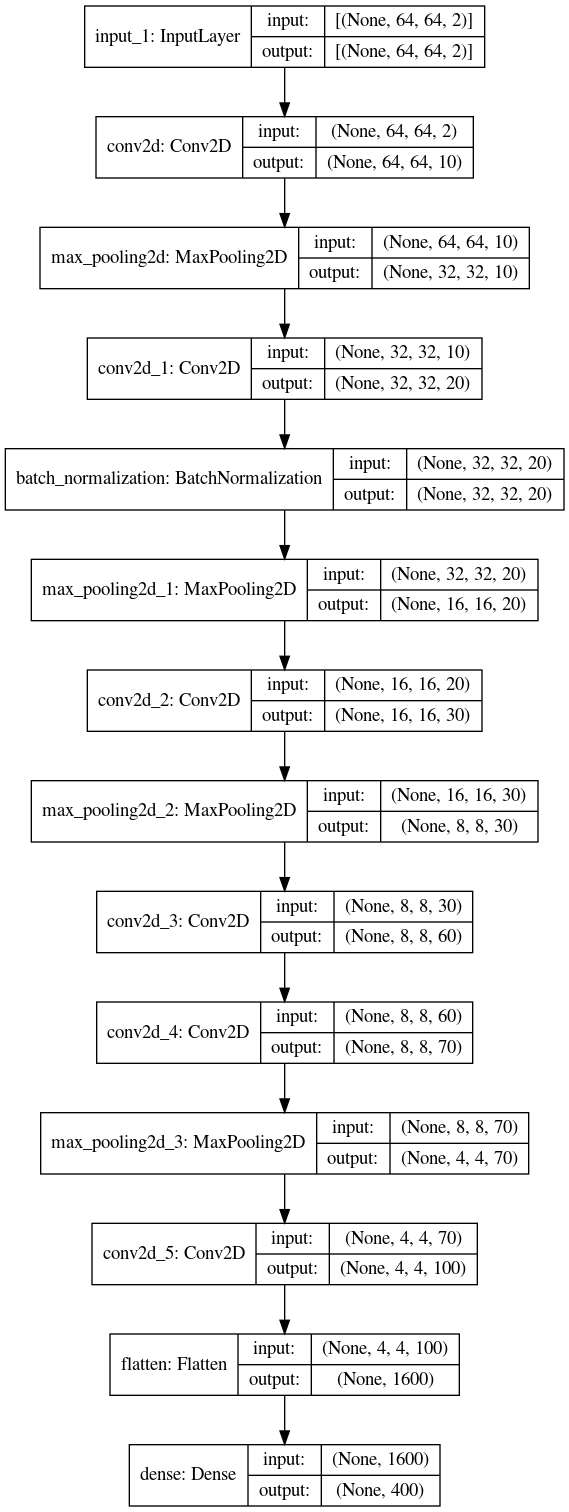
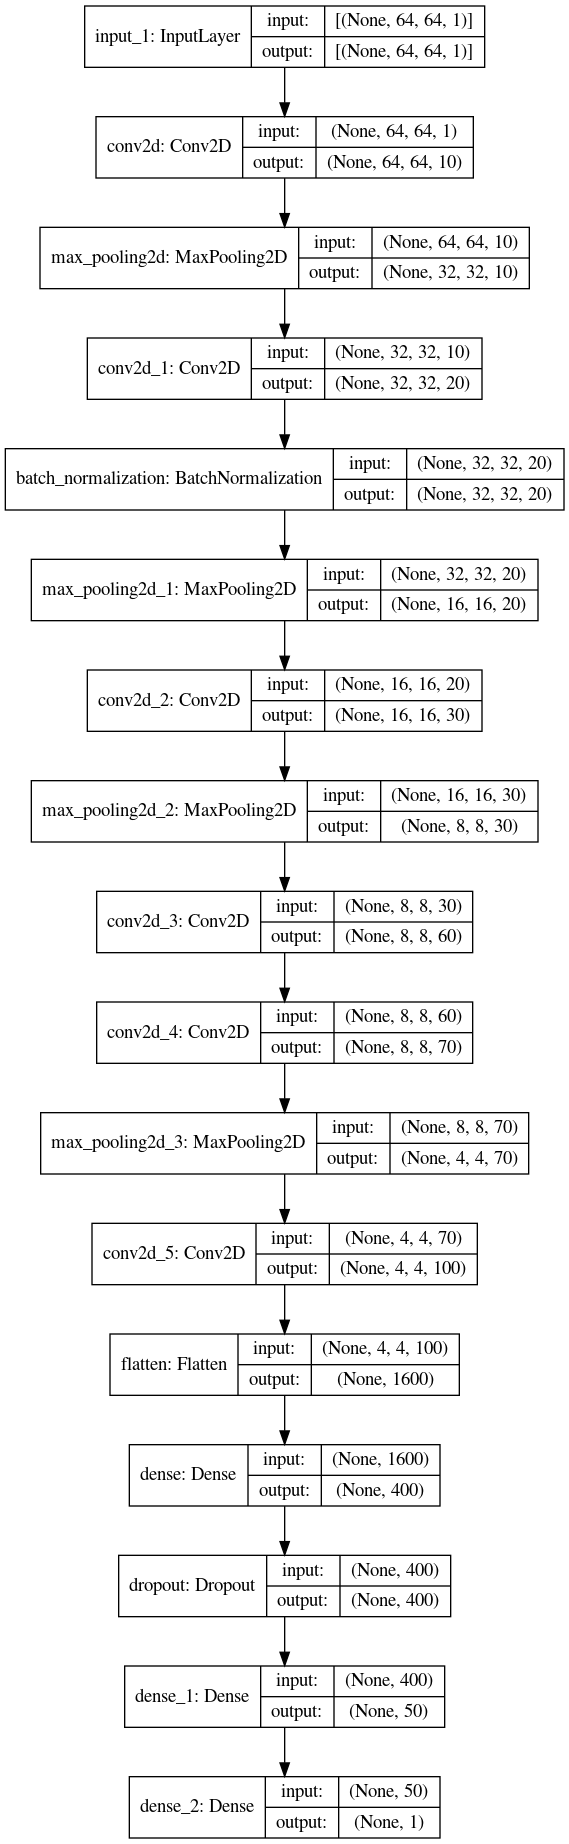
correção de erros do discriminador

diff --git a/Discriminator.py b/Discriminator.py
@@ -3,9 +3,13 @@ from tensorflow.keras.models import Model
 from tensorflow.keras.utils import plot_model
 from tensorflow.python.keras.layers.core import Dense, Dropout
 
+from os import environ
+
+environ["CUDA_VISIBLE_DEVICES"]="1"
 model_name = "Discriminator-AutoEncoder-1.0-64x64"
 
-inputs = Input(shape=(64,64,2))
+
+inputs = Input(shape=(64,64,1))
 layer_1 = Conv2D(filters = 10, kernel_size = 3, padding = 'same', activation = 'relu')(inputs)
 layer_2 = MaxPooling2D()(layer_1)
 layer_3 = Conv2D(filters = 20, kernel_size = 3, padding = 'same', activation = 'relu')(layer_2)
@@ -23,7 +27,7 @@ layer_14 = Dropout(0.3)(layer_13)
 layer_15 = Dense(50, activation='relu')(layer_14)
 layer_16 = Dense(1, activation='sigmoid')(layer_15)
 
-model = Model(inputs = inputs, outputs = layer_13, name = model_name)
+model = Model(inputs = inputs, outputs = layer_16, name = model_name)
 
 model_json = model.to_json(indent = 4)
 
@@ -31,4 +35,4 @@ with open("nNet_models/" + model_name + ".json", "w") as json_file:
     json_file.write(model_json)
     json_file.close()
 
-plot_model(model=model, to_file="nNet_models/PNG-Models/" + model_name + '.png', show_shapes=True, rankdir= "TB", expand_nested=True )
+plot_model(model=model, to_file="nNet_models/PNG-Models/" + model_name + '.png', show_shapes=True, rankdir= "TB", expand_nested = True )
